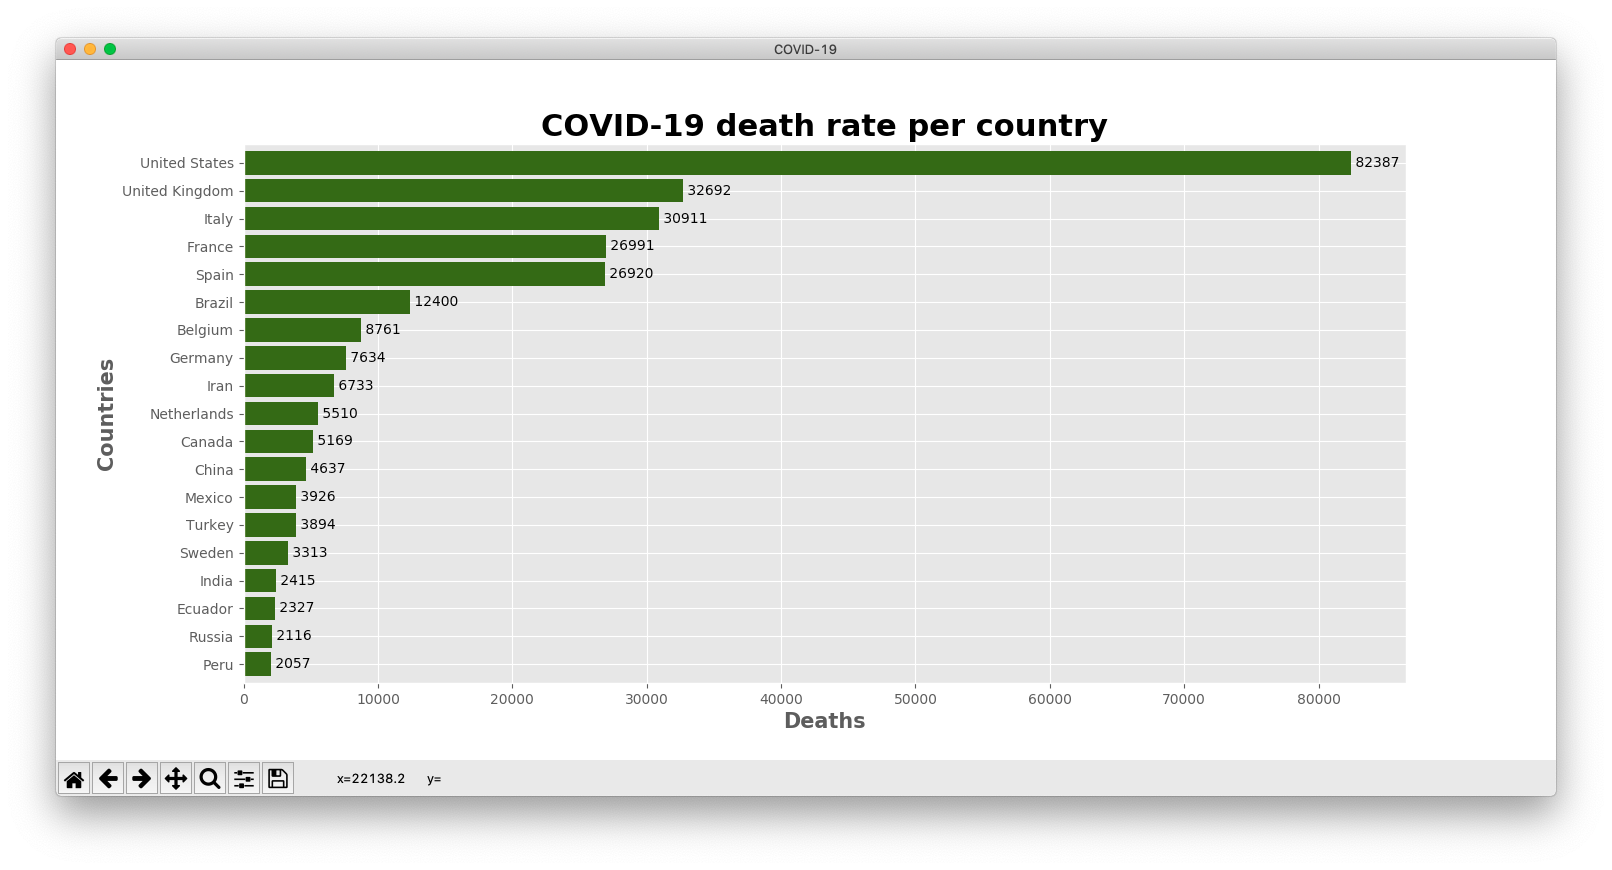
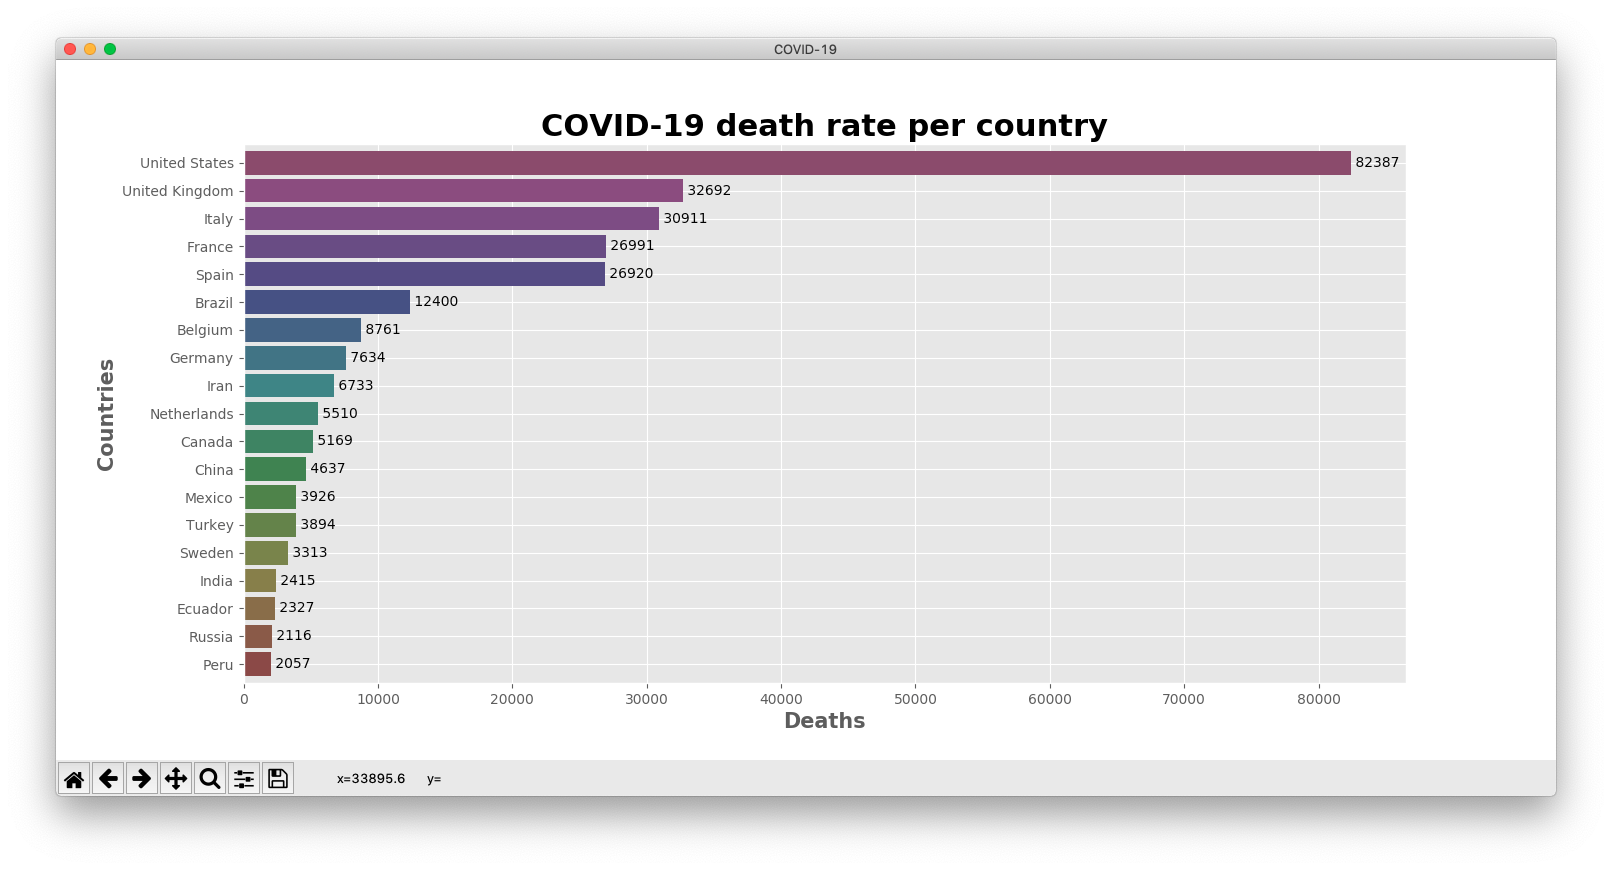
new colors

Changed region(s): [[0.1551, 0.1552, 0.8375, 0.7759], [0.2171, 0.869, 0.2481, 0.9]]

diff --git a/topgraphs.py b/topgraphs.py
@@ -2,6 +2,16 @@
 import matplotlib.pyplot as plt
 import pandas as pd
 from classes import Graph
+import colorsys
+
+# Generates list of colors
+def get_N_HexCol(N=20):
+    HSV_tuples = [(x * 1.0 / N, 0.5, 0.5) for x in range(N)]
+    hex_out = []
+    for rgb in HSV_tuples:
+        rgb = map(lambda x: int(x * 255), colorsys.hsv_to_rgb(*rgb))
+        hex_out.append('#%02x%02x%02x' % tuple(rgb))
+    return hex_out
 
 def show_most_cases(chart, df):
     '''
@@ -12,7 +22,7 @@ def show_most_cases(chart, df):
     stats= chart.split(sep='_')[-1]
     graph = Graph('COVID-19 ' + stats[:-1] + ' rate per country', 'countries', stats)
     top20 = df.groupby('location')[[chart]].sum().sort_values([chart])[-20:-1].reset_index()
-    top20.plot(kind='barh', color='#336600', width=0.85, y=chart, x='location', ax=graph.ax)
+    top20.plot(kind='barh', color=get_N_HexCol(), width=0.85, y=chart, x='location', ax=graph.ax)
     graph.set_info()
     for i, country in enumerate(top20[chart]):
         graph.ax.text(country, i, " "+str(country), va='center')
